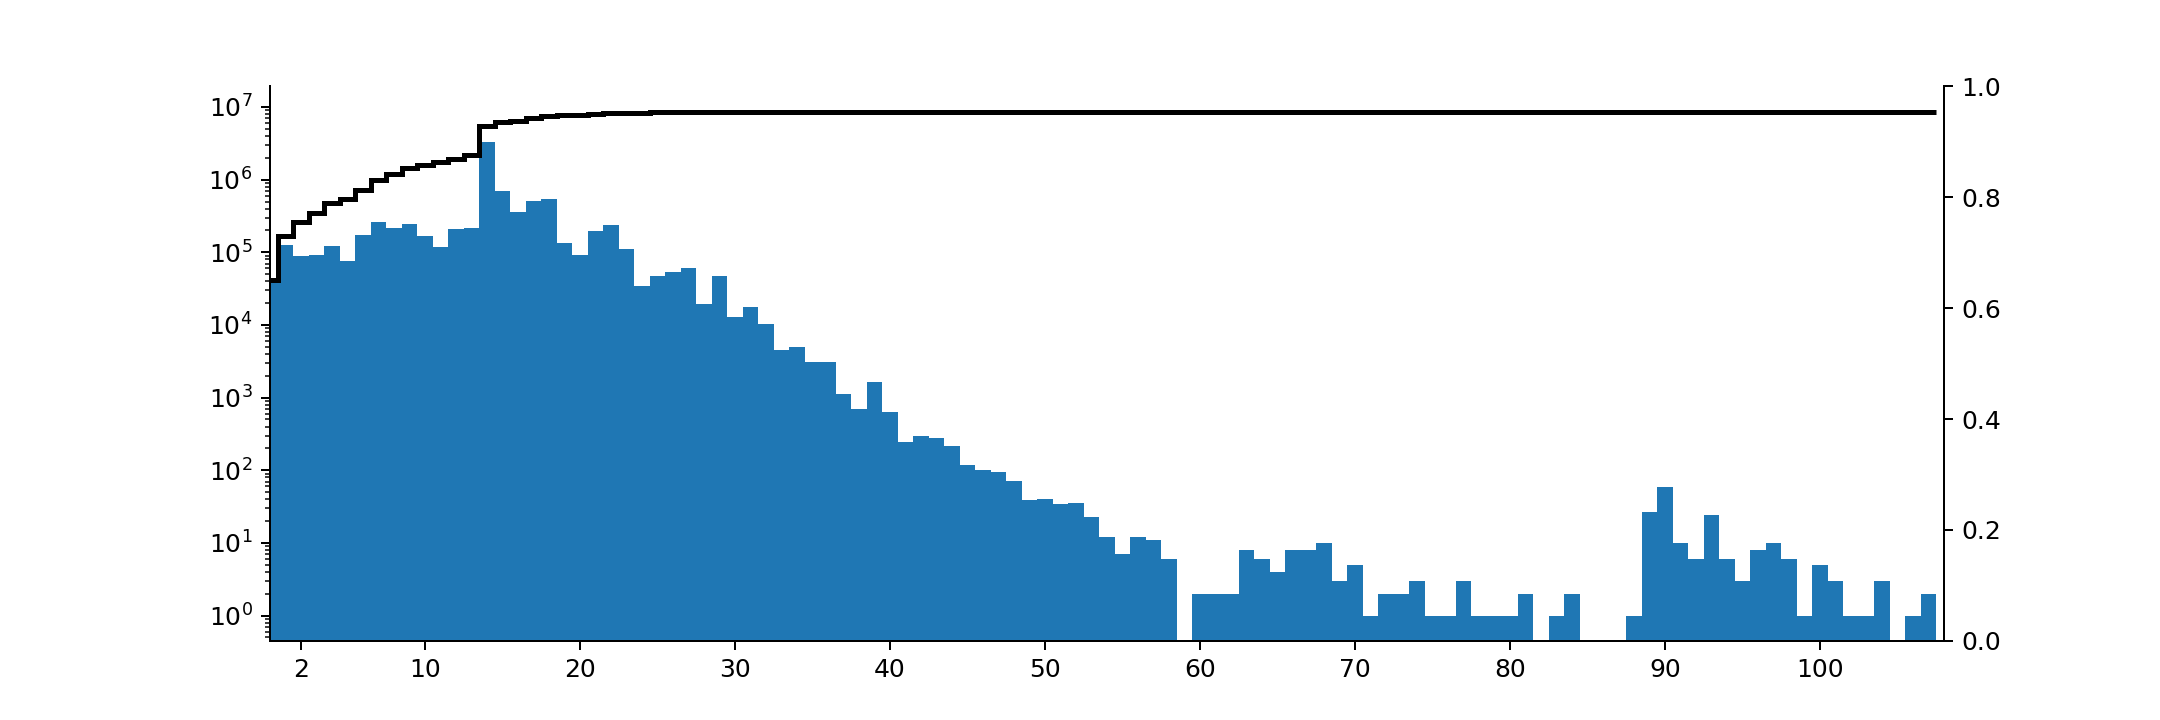
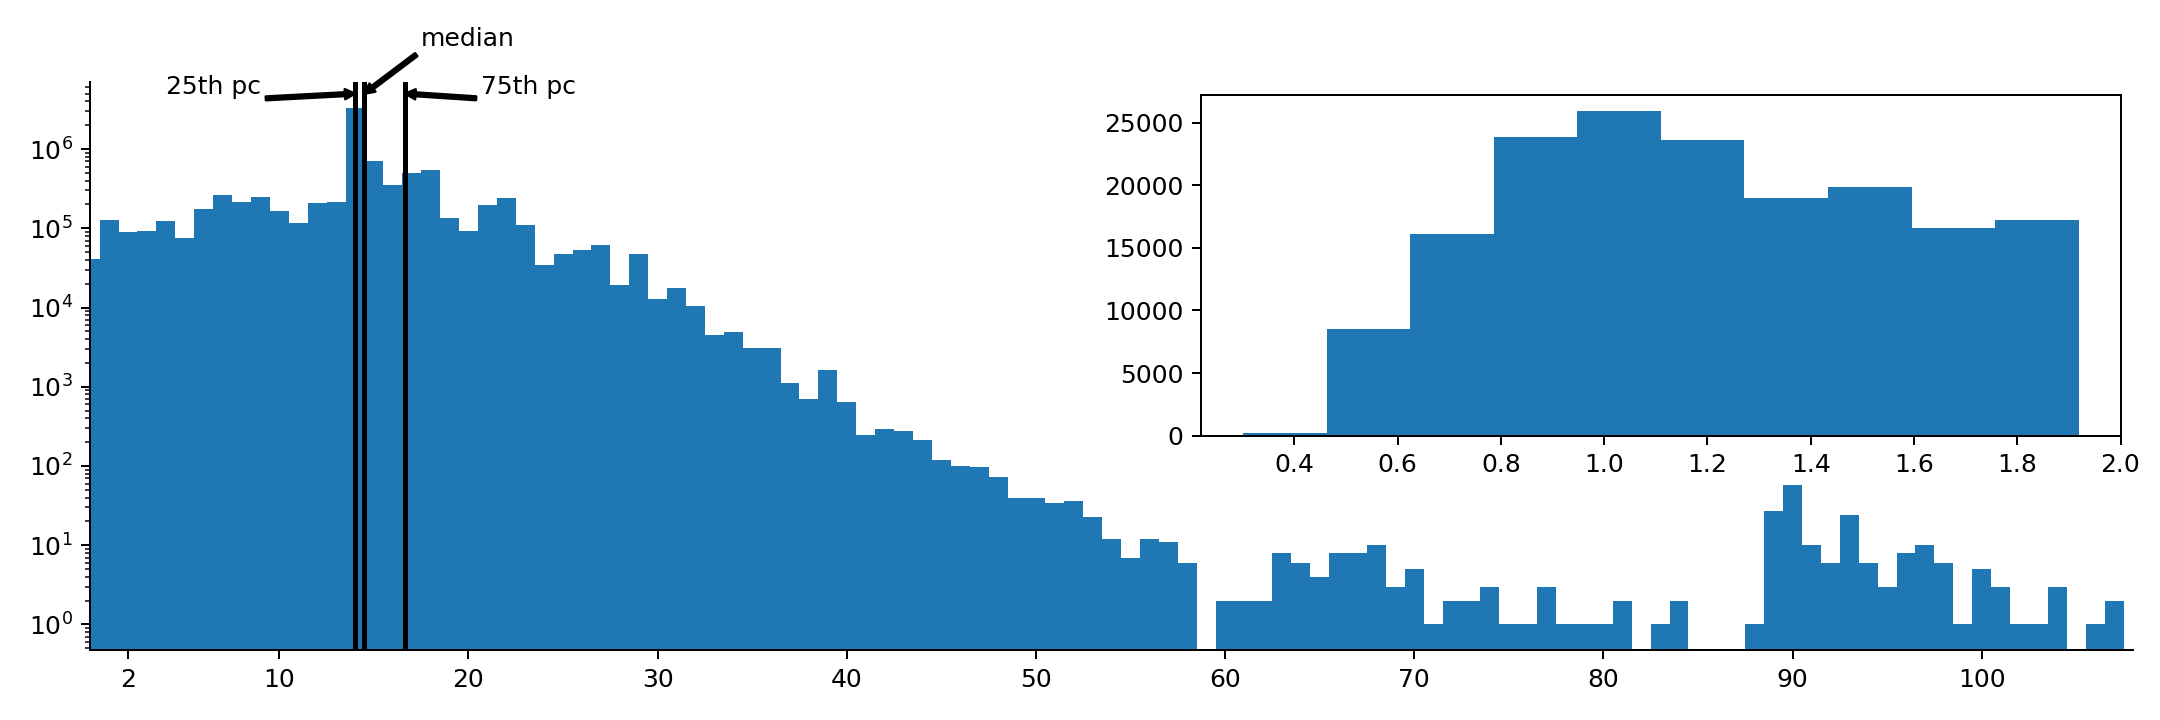
Update gcd speedup plot

diff --git a/bin/plot_gcd_speedup_histogram.py b/bin/plot_gcd_speedup_histogram.py
@@ -4,6 +4,7 @@ import bz2
 import numpy as np
 import matplotlib
 import matplotlib.pyplot as plt
+from mpl_toolkits.axes_grid1.inset_locator import inset_axes
 
 parser = argparse.ArgumentParser(description='Plot gcd data file')
 parser.add_argument('--inputA', dest='inputA', required=True,
@@ -48,13 +49,46 @@ plt.xlim(2, right)
 xTicks = np.arange(10, right, 10)
 xTicks = np.insert(xTicks, 0, 2)
 ax.set_xticks(xTicks)
-
-ax2 = ax.twinx()
-n, bins, patches = ax.hist(data, bins=range(int(min(data)), int(max(data)) + 1, 1), align='left', cumulative=True, histtype='step', color='black', linewidth=2)
-patches[0].set_xy(patches[0].get_xy()[:-1])
 ax.spines['top'].set_visible(False)
-ax2.spines['top'].set_visible(False)
+ax.spines['right'].set_visible(False)
+med = np.median(data)
+print(med)
+ax.axvline(med, linewidth=2, color='black')
+plt.annotate('median', (med, 10**6 * 5), (med + 3, 10**7 * 2),
+             arrowprops={
+                 'width': 1.5,
+                 'headwidth': 4,
+                 'headlength': 4,
+                 'color': 'black'
+             })
+pc75= np.percentile(data, 75)
+ax.axvline(pc75, linewidth=2, color='black')
+plt.annotate('75th pc', (pc75, 10**6 * 5), (pc75 + 4, 10**6 * 5),
+             arrowprops={
+                 'width': 1.5,
+                 'headwidth': 4,
+                 'headlength': 4,
+                 'color': 'black'
+             })
+
+pc25= np.percentile(data, 25)
+ax.axvline(pc25, linewidth=2, color='black')
+plt.annotate('25th pc', (pc25, 10**6 * 5), (pc25 - 10, 10**6 * 5),
+             arrowprops={
+                 'width': 1.5,
+                 'headwidth': 4,
+                 'headlength': 4,
+                 'color': 'black'
+             })
+
+
+
 plt.xlim(int(min(data)), int(max(data)))
+
+axins = inset_axes(ax, width='45%', height='60%')
+lodata = data[data <= 2]
+axins.hist(lodata, align='left')
+plt.tight_layout()
 
 
 for format in [".png", ".pdf"]:
